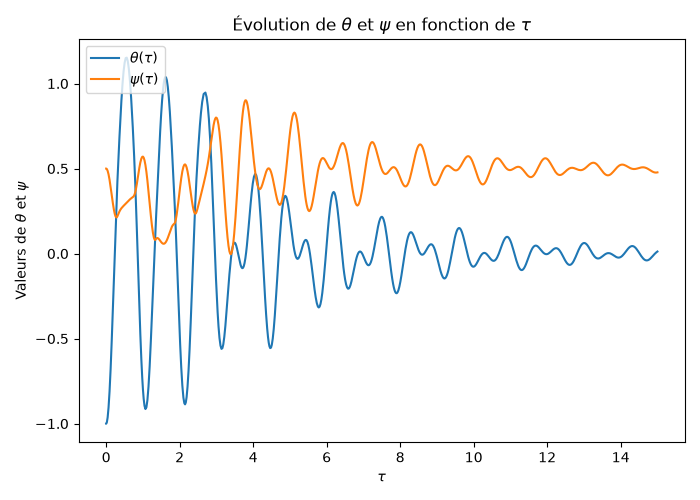
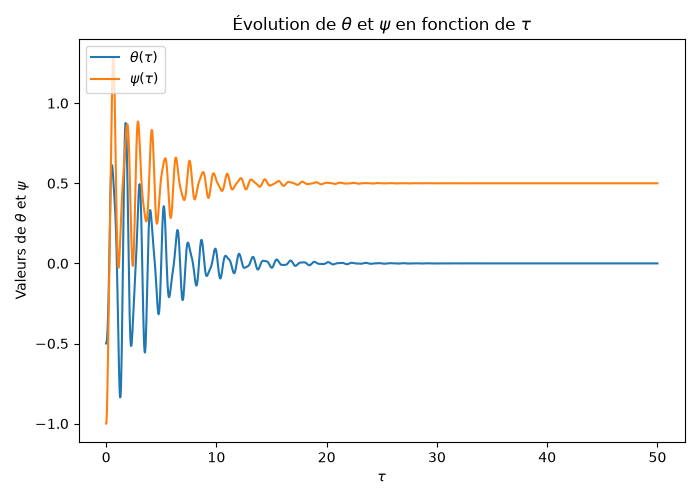
Test du code et des simulations

diff --git a/Projet Modelling animation Manim.py b/Projet Modelling animation Manim.py
@@ -17,11 +17,11 @@ précision_relative = 1e-6
 précision_absolue = 1e-8
 
 # Durée de la simulation
-duréeSimulation = 10
+duréeSimulation = 50
 
 # Conditions initiales 
 theta = -0.5
-psi = 0.5
+psi = -1
 vitesseDeRotation = 0
 vitesseDeVariabilitéDuRapportDeLongueur = 0
 
